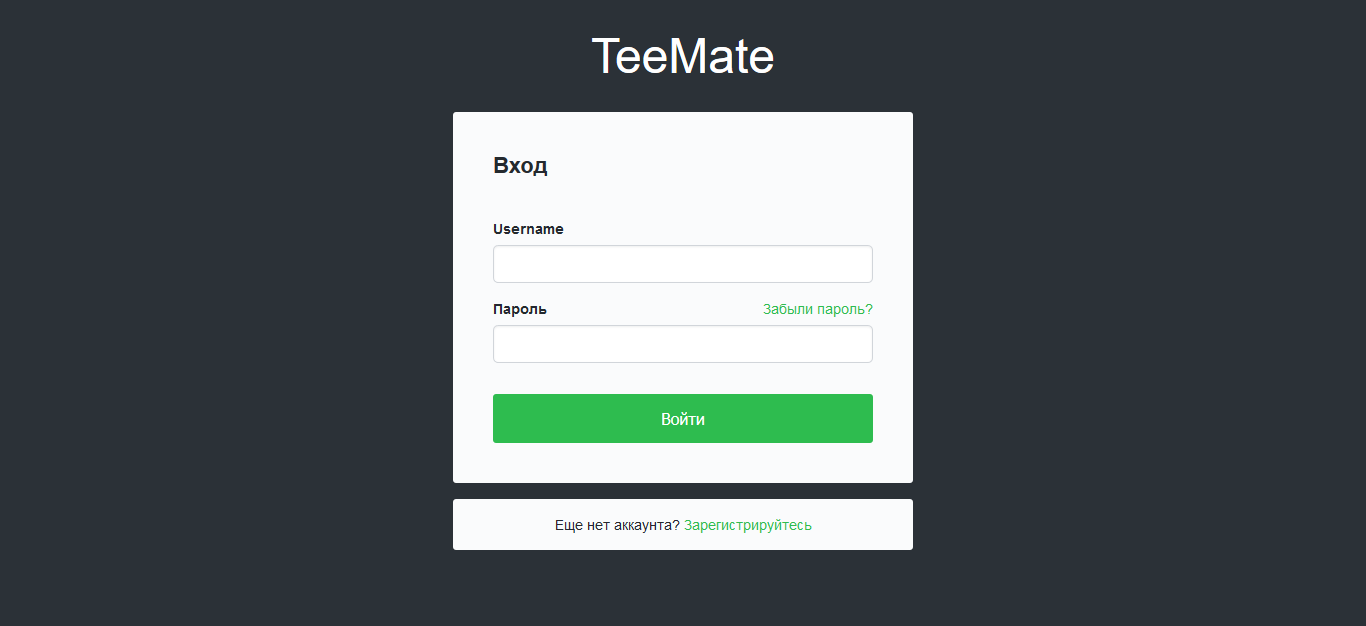
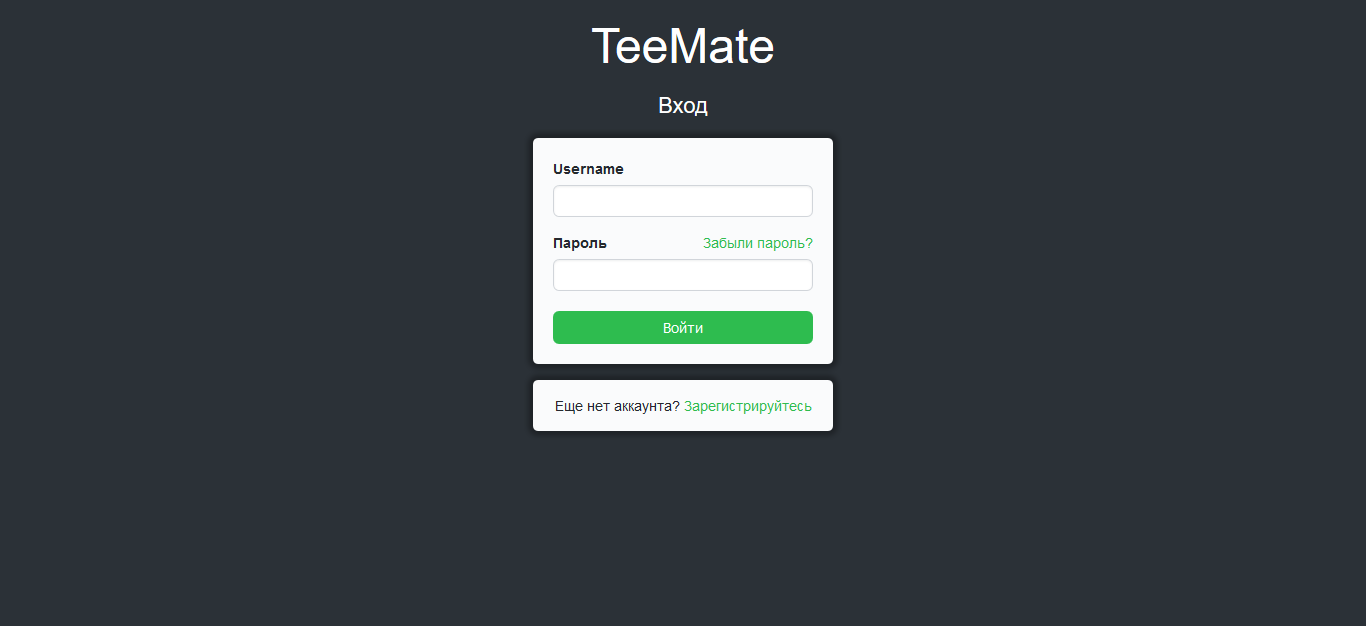
menu-dropdown font changes, new illustrations

Changed region(s): [[0.3075, 0.1518, 0.6764, 0.8802], [0.4305, 0.0304, 0.5842, 0.1214]]

diff --git a/style/user-settings-style.css b/style/user-settings-style.css
@@ -11,7 +11,7 @@ body {
 
 	display: flex;
 	flex-direction: column;
-	color: 24292e;
+	color: #24292e;
 }
 
 /* --------------------------------------------------------------- */
@@ -312,7 +312,7 @@ details:not([open]) > :not(summary) {
 	line-height: 1.25;
 }
 
-.current-user {
+.user-name {
 	display: inline-block;
 	vertical-align: top;
 	overflow: hidden;

diff --git a/php/user-settings.php b/php/user-settings.php
@@ -57,7 +57,7 @@
 							<div class="menu-header">
 								<img class="user-avatar" alt="" src="../img/Flying-Penguin.jpg" width="32px" height="32px">
 								<div class="user-names">
-									<div class="current-user"><?php echo $_SESSION['logged_user']->login; ?></div>
+									<div class="user-name"><?php echo $_SESSION['logged_user']->login; ?></div>
 									<div class="normal-text">Personal settings</div>
 								</div>
 							</div>

diff --git a/index.php b/index.php
@@ -1,5 +1,9 @@
 <?php
 	require "php/db.php";
+	
+	if(isset($_SESSION['logged_user'])) {
+		header('Location: /php/profile.php');
+	}
 ?>
 <!DOCTYPE html>
 <html lang="en">

diff --git a/php/profile.php b/php/profile.php
@@ -4,7 +4,7 @@
 	if(isset($_SESSION['logged_user'])) {
 		
 	} else {
-		header('Location: ../index.php'); 
+		header('Location: ../'); 
 	}
  ?>
 <!DOCTYPE html>
